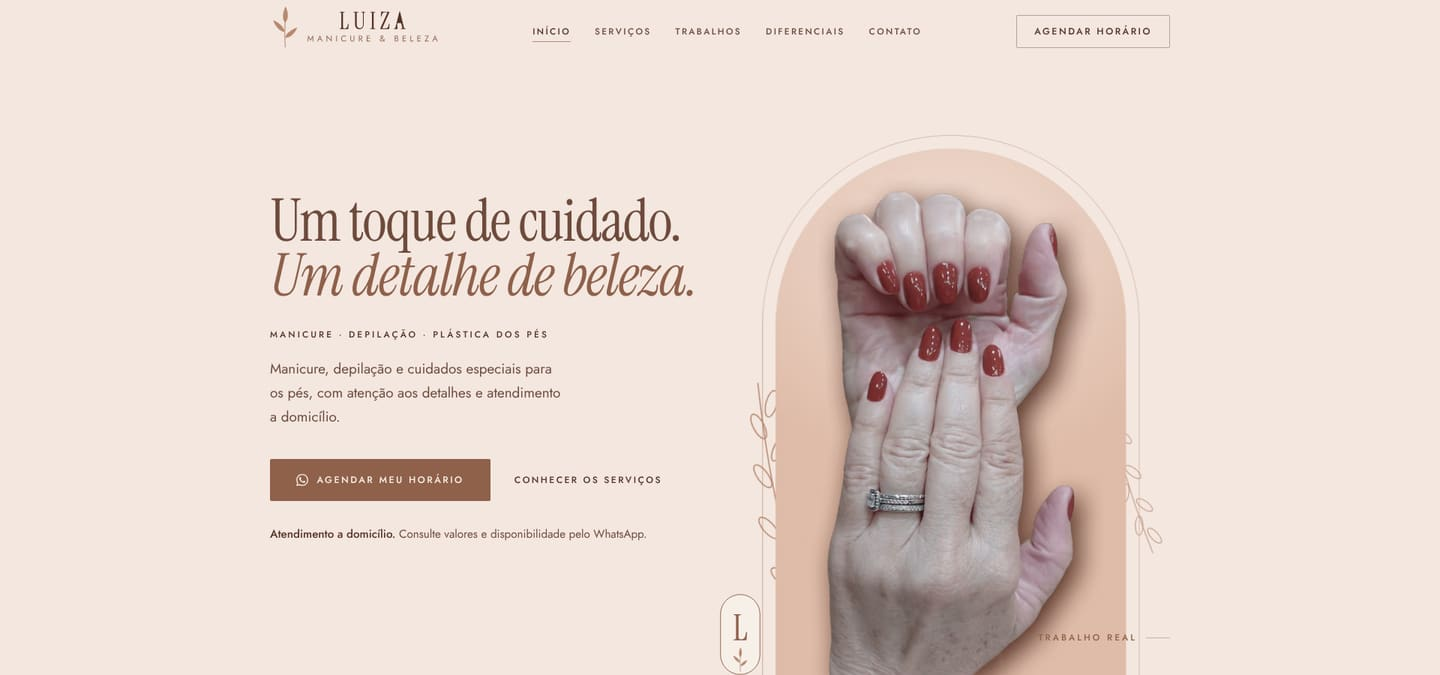
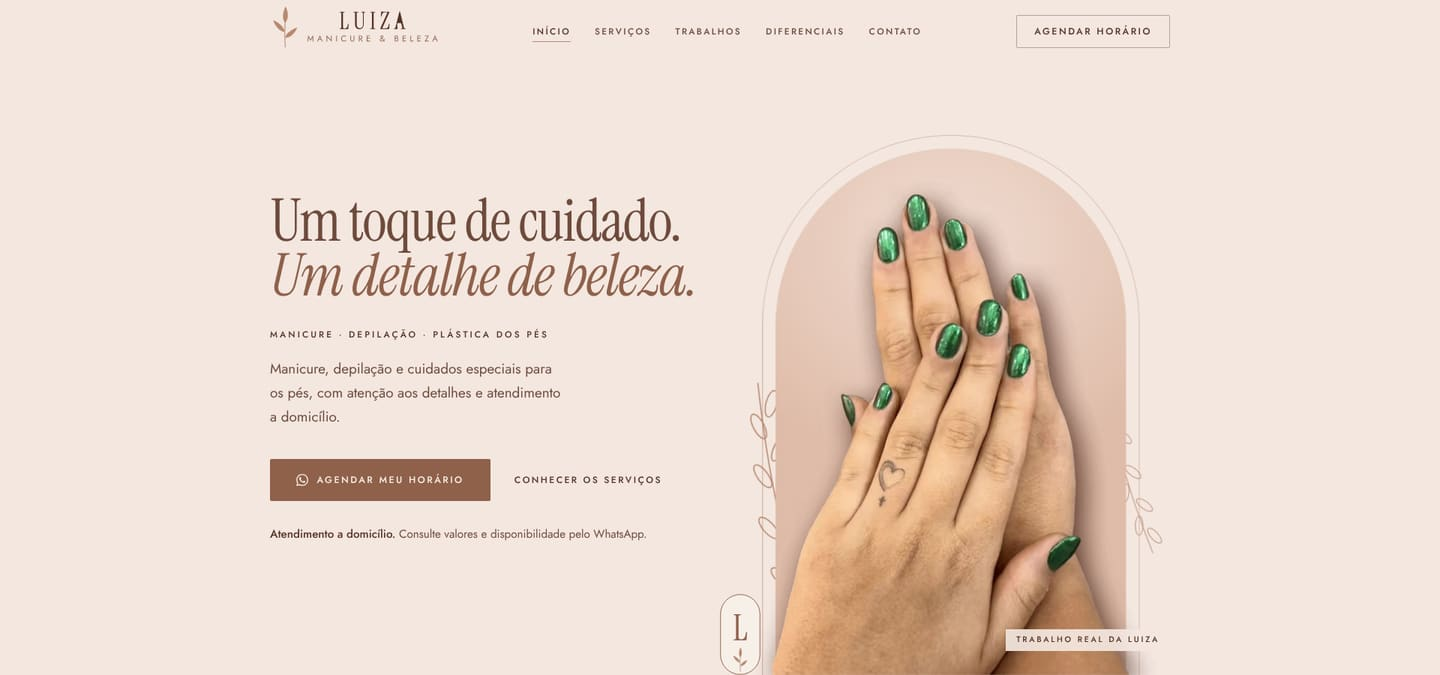
LUIZA: hero com as unhas verdes metalizadas
Recorte da foto verde na hero (antebraços saindo pela base), selo
'Trabalho real da Luiza' sobre a foto, menu e CTA ajustados em 1024px,
link 'Conhecer os serviços' sem quebra de linha.

Claude-Session: https://claude.ai/code/session_016UG3UNeCQEzYNP7inJMp9g

Changed region(s): [[0.5312, 0.28, 0.8125, 1.0]]

diff --git a/luiza-manicure/src/components/Header.tsx b/luiza-manicure/src/components/Header.tsx
@@ -75,12 +75,12 @@ export function Header() {
                 <a
                   href={item.href}
                   aria-current={active === item.href ? "location" : undefined}
-                  className="group relative inline-flex min-h-11 items-center px-3.5 text-[0.74rem] font-medium uppercase tracking-[0.2em] text-cacau-soft transition-colors duration-200 hover:text-cacau aria-[current=location]:text-cacau"
+                  className="group relative inline-flex min-h-11 items-center px-2.5 text-[0.72rem] font-medium uppercase tracking-[0.16em] xl:px-3.5 xl:text-[0.74rem] xl:tracking-[0.2em] text-cacau-soft transition-colors duration-200 hover:text-cacau aria-[current=location]:text-cacau"
                 >
                   {item.label}
                   <span
                     aria-hidden="true"
-                    className="absolute inset-x-3.5 bottom-2 h-px origin-left scale-x-0 bg-rose transition-transform duration-300 ease-out group-hover:scale-x-100 group-aria-[current=location]:scale-x-100"
+                    className="absolute inset-x-2.5 bottom-2 h-px xl:inset-x-3.5 origin-left scale-x-0 bg-rose transition-transform duration-300 ease-out group-hover:scale-x-100 group-aria-[current=location]:scale-x-100"
                   />
                 </a>
               </li>
@@ -89,7 +89,7 @@ export function Header() {
         </nav>
 
         <div className="flex items-center gap-2">
-          <WhatsAppButton event="header_whatsapp_click" variant="secondary" icon={false} className="hidden min-h-11! px-6! sm:inline-flex">
+          <WhatsAppButton event="header_whatsapp_click" variant="secondary" icon={false} className="hidden min-h-11! px-4! sm:inline-flex xl:px-6!">
             Agendar horário
           </WhatsAppButton>
           <button

diff --git a/luiza-manicure/src/components/Hero.tsx b/luiza-manicure/src/components/Hero.tsx
@@ -35,9 +35,8 @@ function HeroVisual({ className = "" }: { className?: string }) {
           draggable={false}
         />
       </div>
-      <p className="caps absolute bottom-6 right-0 z-10 hidden items-center gap-3 text-rose-ink sm:flex lg:bottom-10">
-        Trabalho real
-        <span aria-hidden="true" className="h-px w-8 bg-rose/60" />
+      <p className="caps absolute bottom-5 right-3 z-10 hidden bg-blush/92 px-3.5 py-1.5 text-[0.66rem] text-cacau backdrop-blur-sm sm:block lg:bottom-8 lg:right-0">
+        Trabalho real da Luiza
       </p>
     </div>
   );

diff --git a/luiza-manicure/src/lib/photos.ts b/luiza-manicure/src/lib/photos.ts
@@ -24,9 +24,9 @@ const p = (id: keyof typeof meta, alt: string, label: string): Photo => ({
  */
 export const PHOTOS = {
   hero: p(
-    "hero-terracota",
-    "Duas mãos erguidas mostrando unhas curtas e arredondadas esmaltadas em terracota, com aliança e anel de brilhantes.",
-    "Terracota",
+    "hero",
+    "Mãos sobrepostas e erguidas com unhas arredondadas em verde metalizado com reflexo cromado.",
+    "Verde metalizado",
   ),
   vinho: p(
     "vermelho-vinho",

diff --git a/luiza-manicure/src/app/globals.css b/luiza-manicure/src/app/globals.css
@@ -231,6 +231,7 @@ a {
     font-size: 0.76rem;
     letter-spacing: 0.2em;
     text-transform: uppercase;
+    white-space: nowrap;
     color: var(--color-cacau);
     text-decoration: none;
     background-image: linear-gradient(currentColor, currentColor);

diff --git a/luiza-manicure/README.md b/luiza-manicure/README.md
@@ -65,7 +65,7 @@ Quatro fotos reais da profissional. O fundo de celular (tecido, plástico, salã
 
 | Foto | Onde |
 |---|---|
-| Terracota (recorte) | Hero, sobre o arco nude |
+| Verde metalizado (recorte) | Hero, sobre o arco nude |
 | Vermelho-vinho, verde metalizado, vermelho com tatuagens, terracota | Galeria |
 
 Nenhuma foto de unha representa depilação ou plástica dos pés: esses serviços usam ícones desenhados. Nenhuma imagem foi gerada por IA (o Higgsfield exige plano pago).
